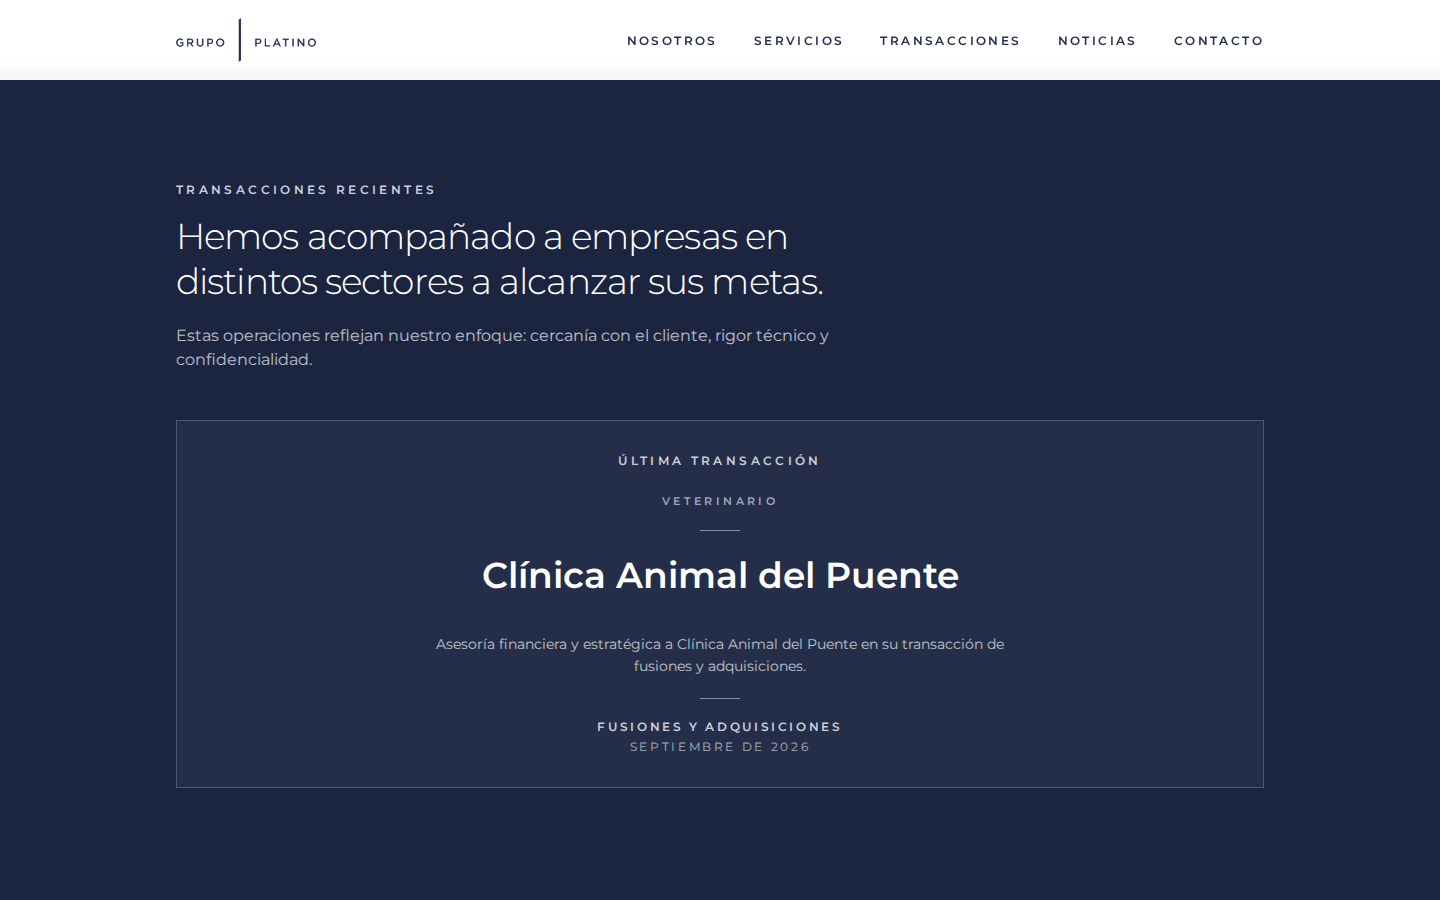
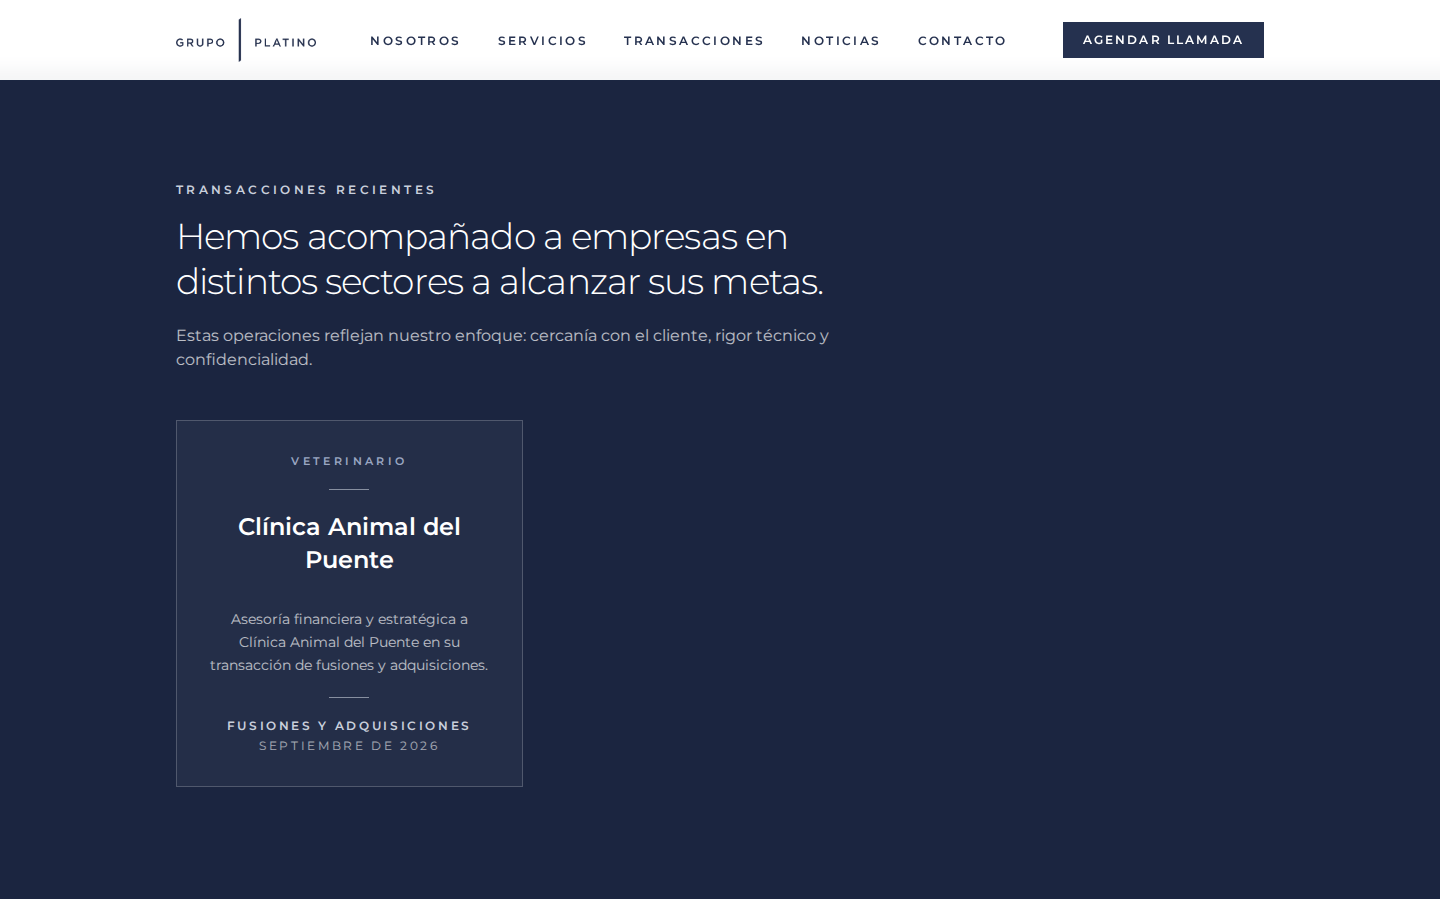
feat(transacciones): quitar etiquetas de última transacción

diff --git a/src/components/Deals.tsx b/src/components/Deals.tsx
@@ -1,17 +1,14 @@
 import { formatMonth, useDeals, type Deal } from '../lib/data';
 
-function Tombstone({ deal, featured }: { deal: Deal; featured: boolean }) {
+function Tombstone({ deal }: { deal: Deal }) {
   return (
     <article
-      className={`flex flex-col justify-between border border-white/20 bg-white/[0.04] p-8 text-center ${
-        featured ? 'min-h-[22rem] sm:col-span-2 lg:col-span-3 lg:min-h-[18rem]' : 'min-h-[20rem]'
-      }`}
+      className="flex min-h-[20rem] flex-col justify-between border border-white/20 bg-white/[0.04] p-8 text-center"
     >
       <div>
-        {featured && <p className="eyebrow mb-6 text-platinum">Última transacción</p>}
         <p className="text-[0.7rem] font-semibold uppercase tracking-[0.3em] text-navy-300">{deal.sector}</p>
         <div className="mx-auto my-5 h-px w-10 bg-platinum/60" />
-        <h3 className={`font-semibold leading-snug ${featured ? 'text-3xl sm:text-4xl' : 'text-2xl'}`}>{deal.client}</h3>
+        <h3 className="text-2xl font-semibold leading-snug">{deal.client}</h3>
       </div>
       <div className="mt-8">
         <p className="mx-auto max-w-xl text-sm leading-relaxed text-white/70">{deal.description}</p>
@@ -53,8 +50,8 @@ export default function Deals() {
           )}
           {deals.status === 'ready' && (
             <div className="grid gap-6 sm:grid-cols-2 lg:grid-cols-3">
-              {deals.data.map((d, i) => (
-                <Tombstone key={d.id} deal={d} featured={i === 0} />
+              {deals.data.map((d) => (
+                <Tombstone key={d.id} deal={d} />
               ))}
             </div>
           )}

diff --git a/src/components/Hero.tsx b/src/components/Hero.tsx
@@ -1,11 +1,7 @@
 import { asset } from '../lib/asset';
 import { calendlyUrl } from '../content';
-import { formatMonth, useDeals } from '../lib/data';
 
 export default function Hero() {
-  const deals = useDeals();
-  const latest = deals.status === 'ready' ? deals.data[0] : undefined;
-
   return (
     <section
       id="inicio"
@@ -36,18 +32,6 @@ export default function Hero() {
           </a>
         </div>
 
-        {latest && (
-          <a
-            href="#transacciones"
-            className="mt-16 flex max-w-xl flex-col gap-1 border-l-2 border-platinum/70 pl-5 transition-colors hover:border-white"
-          >
-            <span className="eyebrow text-platinum">Última transacción</span>
-            <span className="text-lg font-semibold">{latest.client}</span>
-            <span className="text-sm text-white/65">
-              {latest.type} · {formatMonth(latest.date)}
-            </span>
-          </a>
-        )}
       </div>
     </section>
   );

diff --git a/README.md b/README.md
@@ -46,7 +46,7 @@ scripts/
 
 ## Cómo agregar una transacción
 
-La más reciente (por fecha) aparece primero y destacada como **Última transacción**. No se muestran cifras ni montos salvo que se confirmen explícitamente.
+Las transacciones se muestran como tarjetas iguales, ordenadas por fecha (la más reciente primero), sin etiquetas ni destacados. No se muestran cifras ni montos salvo que se confirmen explícitamente.
 
 **Opción A — editar el JSON.** Agrega un objeto a `public/data/deals.json`:
 
